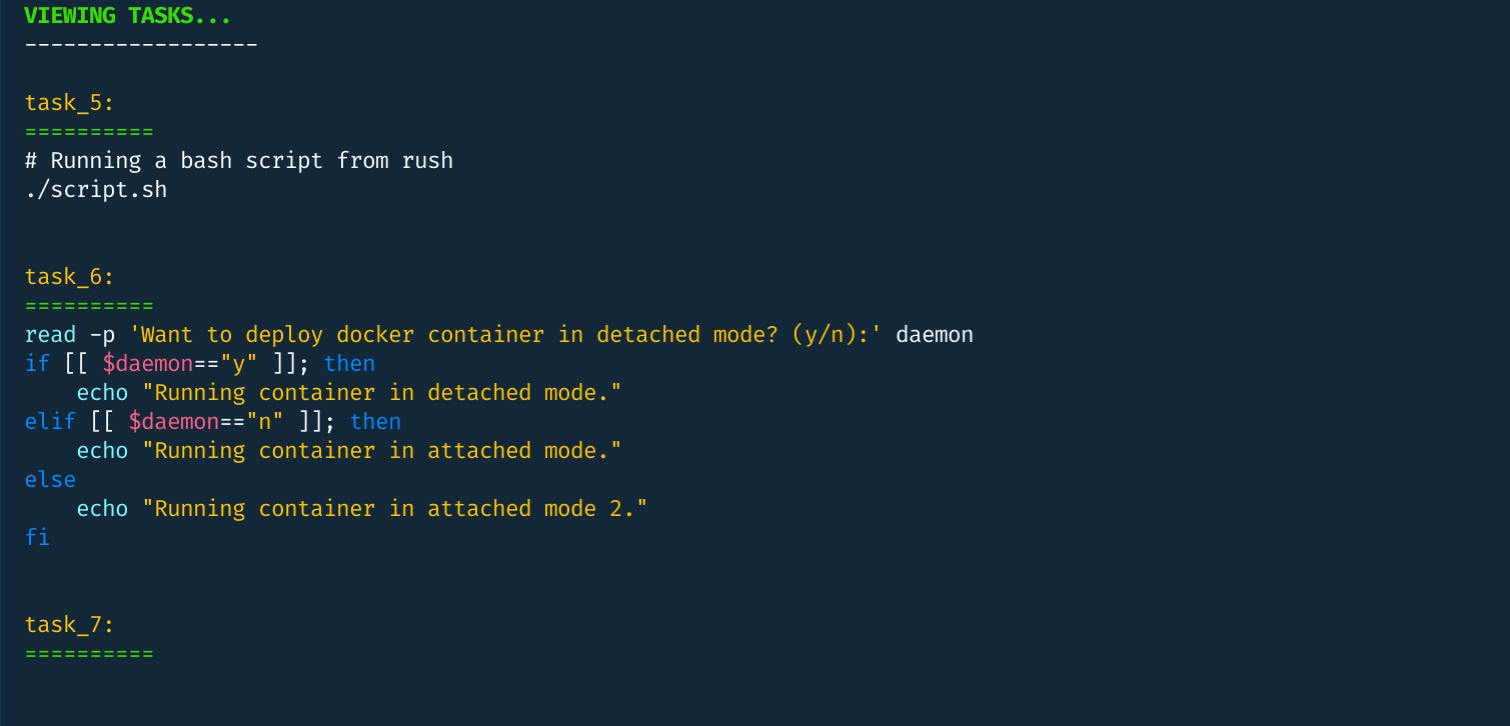
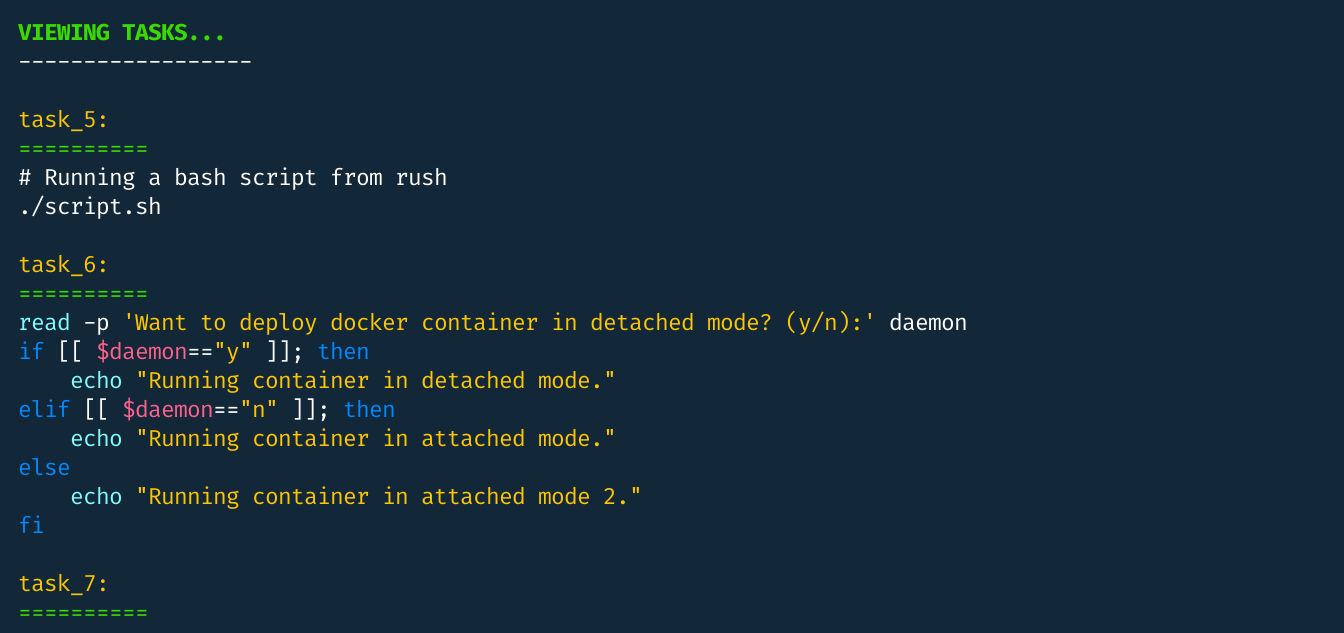
Prettified task views

diff --git a/rush_cli/prep_tasks.py b/rush_cli/prep_tasks.py
@@ -5,13 +5,7 @@ import click
 import pretty_errors
 
 from rush_cli.read_tasks import ReadTasks
-from rush_cli.utils import (
-    beautify_task_cmd,
-    beautify_task_name,
-    scream,
-    split_lines,
-    strip_spaces,
-)
+from rush_cli.utils import beautify_task_cmd, beautify_task_name, scream
 
 
 class PrepTasks(ReadTasks):
@@ -30,8 +24,8 @@ class PrepTasks(ReadTasks):
 
         for task_name, task_chunk in yml_content.items():
             if task_chunk:
-                task_chunk = strip_spaces(task_chunk)
-                task_chunk = split_lines(task_chunk)
+                task_chunk = task_chunk.rstrip()
+                task_chunk = task_chunk.split("\n")
                 cleaned_tasks[task_name] = task_chunk
             else:
                 cleaned_tasks[task_name] = ""
@@ -86,6 +80,7 @@ class PrepTasks(ReadTasks):
 
         yml_content = self.read_rushfile()
         cleaned_tasks = self.clean_tasks(yml_content)
+
         # replace placeholders and flatten
         for task_name, task_chunk in cleaned_tasks.items():
             task_chunk = self._replace_placeholder_tasks(task_chunk, cleaned_tasks)
@@ -114,6 +109,7 @@ class Views(PrepTasks):
     @property
     def view_tasks(self):
         cleaned_tasks = self.get_prepared_tasks()
+
         scream(what="view")
         for k, v in cleaned_tasks.items():
             beautify_task_name(k)

diff --git a/rush_cli/utils.py b/rush_cli/utils.py
@@ -40,14 +40,6 @@ def walk_up(bottom):
         yield x
 
 
-def strip_spaces(st):
-    return st.rstrip()
-
-
-def split_lines(st):
-    return st.split("\n")
-
-
 def beautify_task_name(task_name):
     click.echo("")
     task_name = f"{task_name}:"
@@ -71,25 +63,29 @@ def beautify_skiptask_name(task_name):
 def beautify_task_cmd(cmd: str):
     """Highlighting the bash commands."""
 
-    click.echo((highlight(cmd, BashLexer(), TerminalFormatter())))
+    cmd = highlight(cmd, BashLexer(), TerminalFormatter())
+    cmd = cmd.rstrip()
+    click.echo(cmd)
 
 
 def scream(what):
     """Screaming 'Viewing Tasks'... or 'Running Tasks'."""
 
+    separator = "-" * 18
+
     if what == "run":
         click.echo("")
         click.secho("RUNNING TASKS...", fg="green", bold=True)
-        click.secho("-" * 18)
+        click.secho(separator)
 
     elif what == "view":
         click.echo("")
         click.secho("VIEWING TASKS...", fg="green", bold=True)
-        click.secho("-" * 18)
+        click.secho(separator)
 
 
 def find_shell_path(shell_name="bash"):
-    """Finds out system's bash interpreter path"""
+    """Finds out system's bash interpreter path."""
 
     if not os.name == "nt":
         cmd = ["which", "-a", shell_name]

diff --git a/rush_cli/read_tasks.py b/rush_cli/read_tasks.py
@@ -31,6 +31,7 @@ class ReadTasks:
 
     def read_rushfile(self):
         rushfile = self.find_rushfile()
+
         try:
             with open(rushfile) as file:
                 yml_content = yaml.load(file, Loader=yaml.FullLoader)
